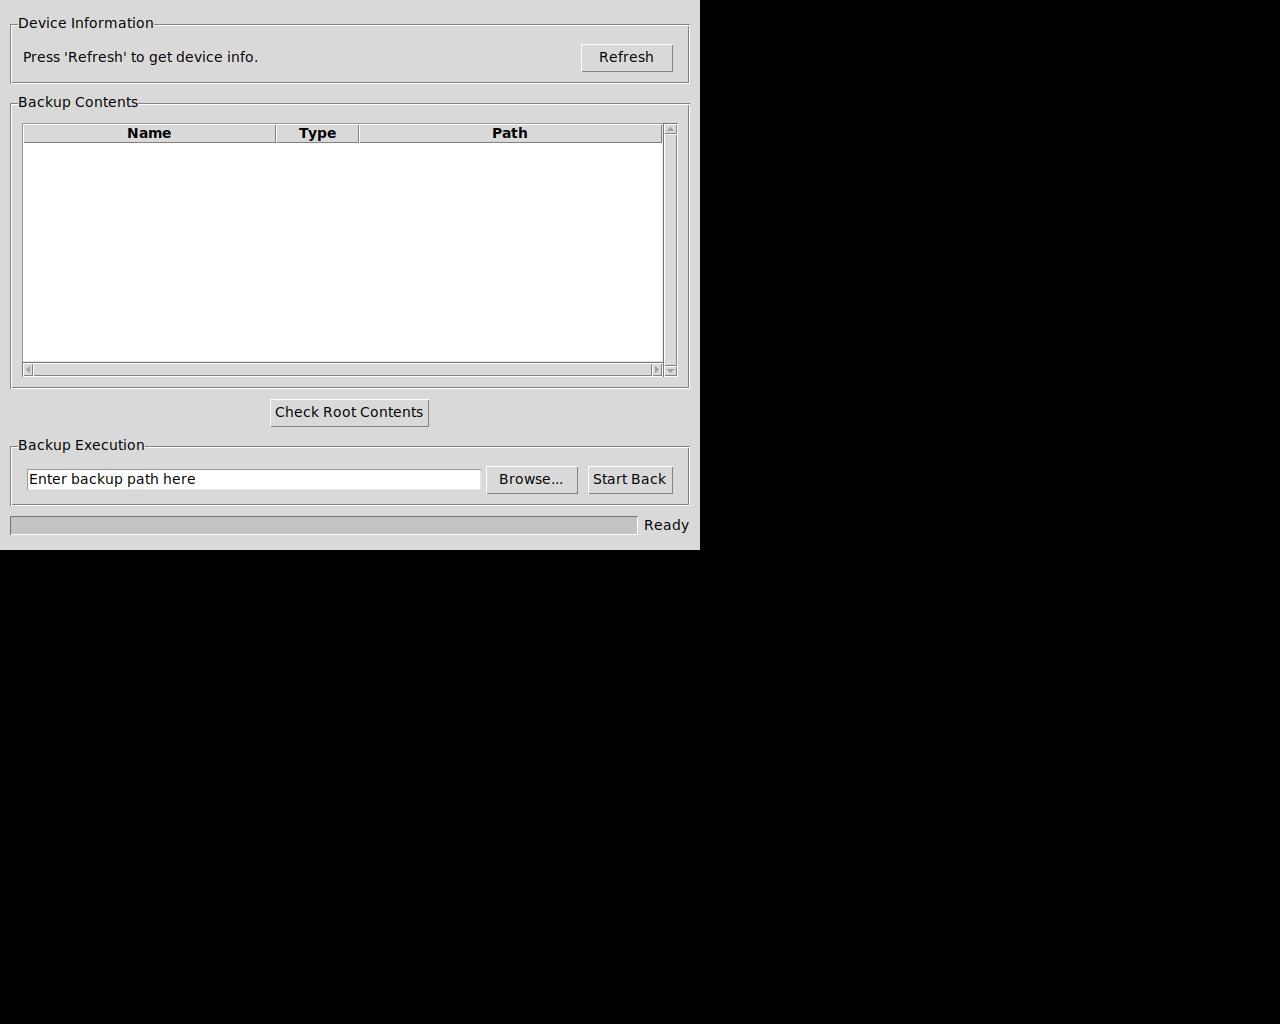
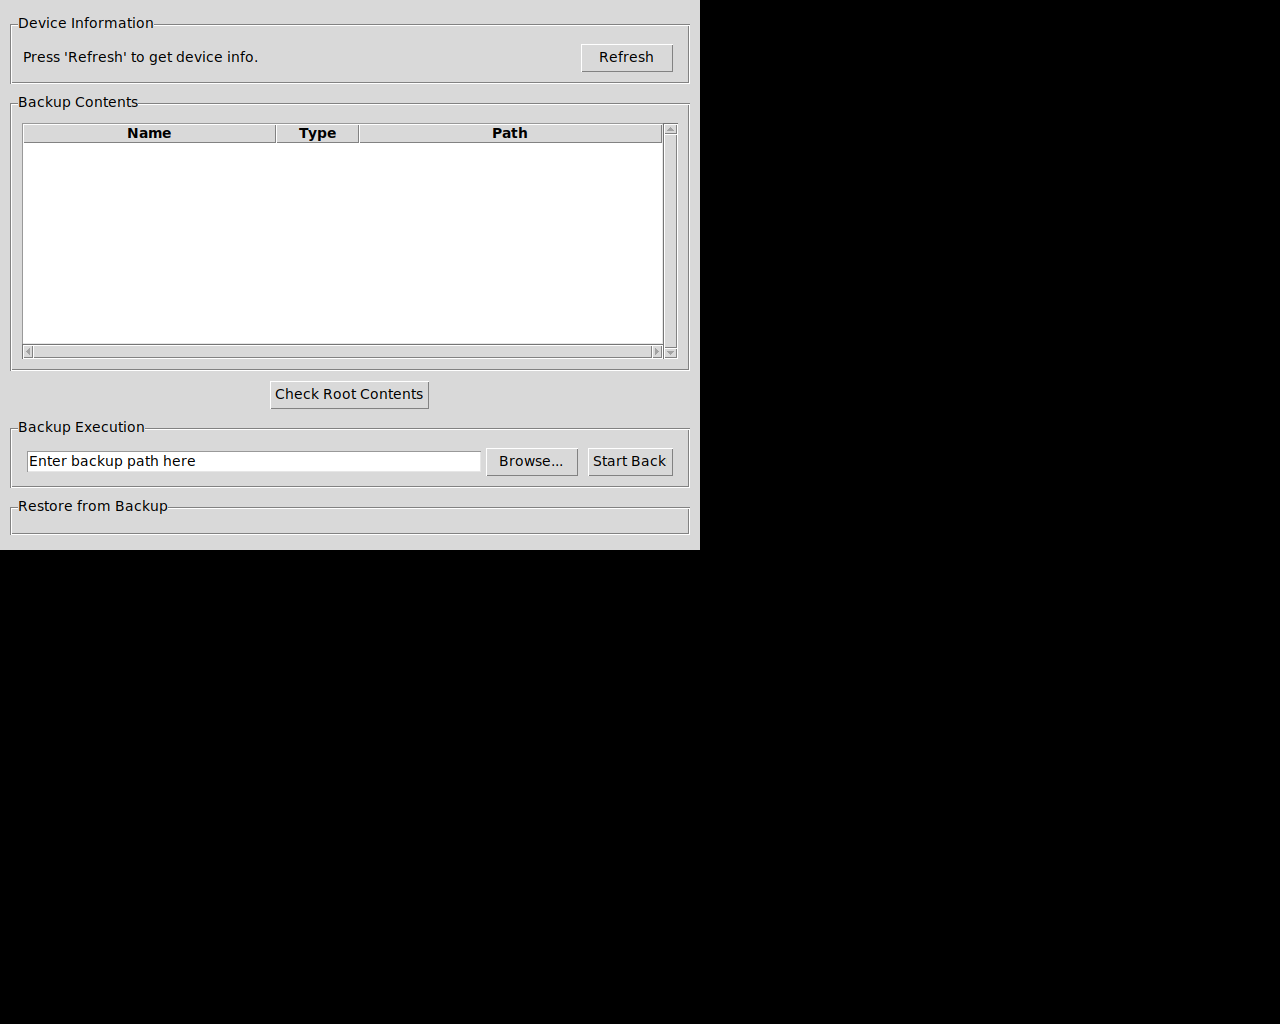
feat: iPadバックアップアプリに復元機能を追加
`backup_logic.py`に`start_restore`関数を追加し、`pymobiledevice3`ライブラリを利用してデバイスを復元するバックエンドロジックを実装しました。

`main_app.py`のGUIを更新し、以下の要素を追加しました:
- 復元元フォルダを選択するためのUI
- 復元処理を開始するための「Start Restore」ボタン
- 復元が破壊的な操作であることを警告し、ユーザーの意思を確認するための確認ダイアログ

これにより、アプリケーションはフルバックアップとそこからの復元の両方の機能を持つようになりました。

Changed region(s): [[0.0, 0.3125, 0.5312, 0.5312]]

diff --git a/main_app.py b/main_app.py
@@ -83,6 +83,22 @@ class BackupApp(tk.Tk):
         self.start_button = ttk.Button(backup_frame, text="Start Backup", command=self.start_backup)
         self.start_button.pack(side=tk.RIGHT, padx=5)
 
+        # --- 復元フレーム ---
+        restore_frame = ttk.LabelFrame(main_frame, text="Restore from Backup", padding="10")
+        restore_frame.pack(fill=tk.X, pady=5)
+
+        self.restore_path = tk.StringVar()
+        restore_path_entry = ttk.Entry(restore_frame, textvariable=self.restore_path, width=50)
+        restore_path_entry.pack(side=tk.LEFT, fill=tk.X, expand=True, padx=(5,0))
+        restore_path_entry.insert(0, "Enter restore path here")
+
+        restore_browse_button = ttk.Button(restore_frame, text="Browse...", command=self.browse_restore_folder)
+        restore_browse_button.pack(side=tk.LEFT, padx=5)
+
+        self.restore_button = ttk.Button(restore_frame, text="Start Restore", command=self.start_restore)
+        self.restore_button.pack(side=tk.RIGHT, padx=5)
+
+
         progress_frame = ttk.Frame(main_frame, padding=(0, 5))
         progress_frame.pack(fill=tk.X, side=tk.BOTTOM)
 
@@ -96,6 +112,10 @@ class BackupApp(tk.Tk):
     def browse_folder(self):
         folder = filedialog.askdirectory()
         if folder: self.backup_path.set(folder)
+
+    def browse_restore_folder(self):
+        folder = filedialog.askdirectory()
+        if folder: self.restore_path.set(folder)
 
     def start_threaded_task(self, task, *args):
         self.status_label.config(text="Processing...")
@@ -148,6 +168,24 @@ class BackupApp(tk.Tk):
         except be.BackupError as e:
             self.queue.put(("error", str(e)))
 
+    def start_restore(self):
+        path = self.restore_path.get()
+        if not path or path == "Enter restore path here":
+            messagebox.showwarning("Warning", "Please select a restore source folder.")
+            return
+
+        if messagebox.askyesno("Confirm Restore",
+                                "WARNING: This will overwrite data on your iPad. "
+                                "Are you sure you want to proceed?"):
+            self.restore_button.config(state=tk.DISABLED)
+            self.start_threaded_task(self._start_restore_worker, path)
+
+    def _start_restore_worker(self, path):
+        try:
+            be.start_restore(path, self.update_progress)
+        except be.BackupError as e:
+            self.queue.put(("error", str(e)))
+
     def update_progress(self, progress, message):
         self.queue.put(("progress", (progress, message)))
 
@@ -169,12 +207,14 @@ class BackupApp(tk.Tk):
                     self.status_label.config(text=message)
                     if progress == 100:
                         self.start_button.config(state=tk.NORMAL)
+                        self.restore_button.config(state=tk.NORMAL)
                         if "successfully" in message.lower():
                             messagebox.showinfo("Success", message)
                 elif msg_type == "error":
                     self.status_label.config(text=f"Error: {data}")
                     messagebox.showerror("Error", data)
                     self.start_button.config(state=tk.NORMAL)
+                    self.restore_button.config(state=tk.NORMAL)
         except queue.Empty:
             pass
         finally:

diff --git a/backup_logic.py b/backup_logic.py
@@ -78,6 +78,31 @@ def start_backup(backup_path: str, progress_callback: Callable[[int, str], None]
             raise BackupError("iPadが接続されていません。バックアップを開始できません。")
         raise BackupError(f"バックアップ中にエラーが発生しました: {e}")
 
+def start_restore(backup_path: str, progress_callback: Callable[[int, str], None]):
+    """
+    指定されたバックアップデータからデバイスを復元する。
+    """
+    if not PYMOBILEDEVICE3_AVAILABLE:
+        raise BackupError("pymobiledevice3ライブラリが利用できません。")
+    if not os.path.isdir(backup_path):
+        raise BackupError(f"指定されたバックアップパスが見つかりません: {backup_path}")
+
+    try:
+        with MobileBackup2Service() as backup_service:
+            progress_callback(10, "復元サービスを開始しています...")
+            # restoreメソッドを呼び出す。進捗の詳細は不明なため、主要なステップでコールバックを呼ぶ
+            backup_service.restore(backup_path)
+            progress_callback(90, "ファイルの復元を完了し、デバイスを再起動しています...")
+            # 実際の復元はデバイスの再起動を伴うことが多い
+            time.sleep(5) # ダミーの待機
+            progress_callback(100, "復元が正常に完了しました。")
+
+    except (NoDeviceConnectedError, PyMobileDevice3Exception) as e:
+        if isinstance(e, NoDeviceConnectedError):
+            raise BackupError("iPadが接続されていません。復元を開始できません。")
+        raise BackupError(f"復元中にエラーが発生しました: {e}")
+
+
 if __name__ == '__main__':
     print("--- バックエンドロジック テスト ---")
     if not PYMOBILEDEVICE3_AVAILABLE:
